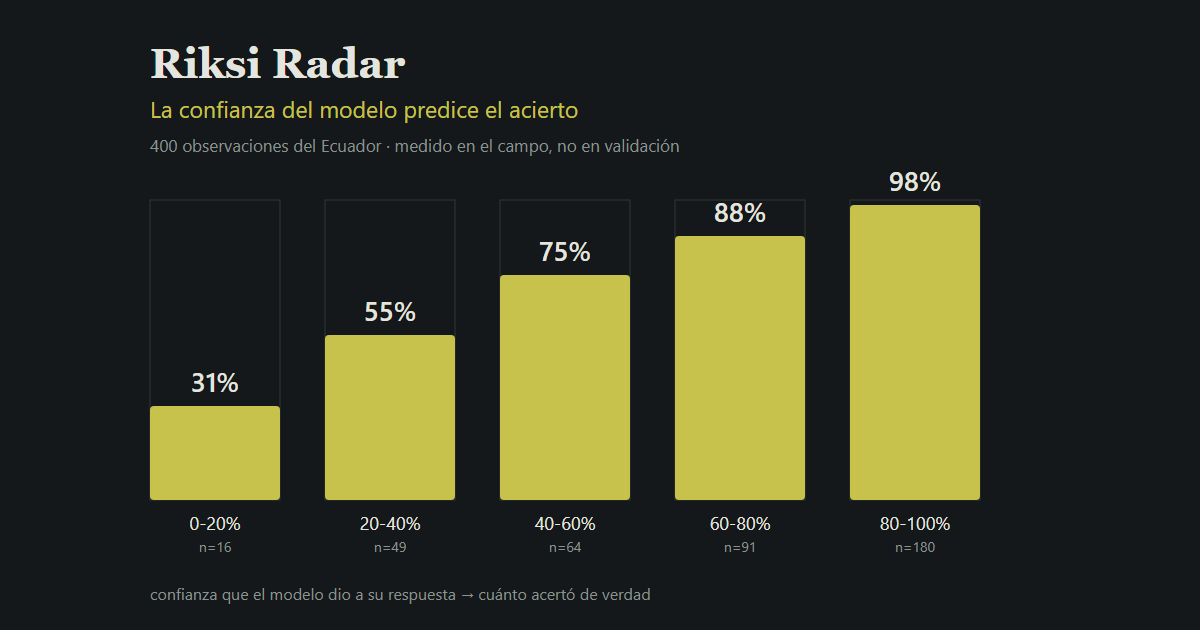
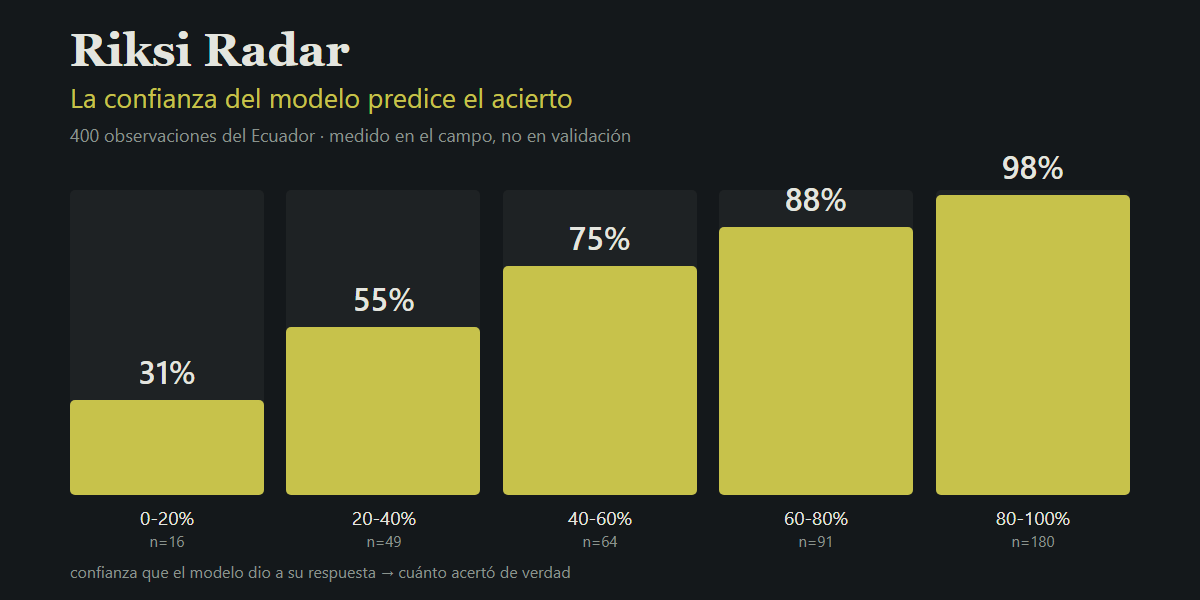
La portada llena el lienzo: de 3,53 a 7,65 de usabilidad
La primera version usaba barras de 130px con margenes de 150 sobre un
lienzo de 1200x630: cinco palitos perdidos en un fondo negro. Ahora el
ancho de barra sale de dividir el espacio disponible, asi que el dibujo
se adapta si algun dia hay mas tramos, y hay aire suficiente arriba para
que la cifra de la barra mas alta no roce el subtitulo.

Con eso Kaggle no reporta ninguna accion pendiente y la nota queda en
7,65. Las descripciones de columna si habian llegado: tardan en
indexarse, y por eso la nota parecia estancada en 6,47.

Changed region(s): [[0.0308, 0.24, 0.9558, 0.96], [0.0617, 0.03, 0.5858, 0.24]]

diff --git a/portada.py b/portada.py
@@ -23,7 +23,11 @@ SALIDA = AQUI / "kaggle" / "portada.png"
 # misma familia sin tener que decirlo.
 BASALTO, LIQUEN, PAPEL, TENUE = "#14181b", "#c7c24b", "#e4e5df", "#8a938d"
 
-ANCHO, ALTO = 1200, 630          # la proporción que Kaggle usa en el listado
+# Kaggle recorta la portada a un rectángulo ancho en el listado y la enseña
+# pequeña, así que el dibujo tiene que llenar el lienzo. La primera versión
+# usaba 1200x630 con barras de 130 px y márgenes de 150: se veía como cinco
+# palitos perdidos en un fondo negro.
+ANCHO, ALTO = 1200, 600
 
 
 def datos():
@@ -50,50 +54,63 @@ def datos():
 
 
 def svg(filas, total):
-    izq, base, ancho_barra, hueco = 150, 500, 130, 45
-    alto_max = 300
+    """Cinco barras que llenan el lienzo, no cinco palitos en un fondo.
+
+    El ancho de barra sale de dividir el espacio disponible, en vez de estar
+    fijado a ojo: así el dibujo se adapta si algún día hay más tramos.
+    """
+    # 190 arriba deja sitio a la cifra sobre la barra mas alta: con 175 el «98 %»
+    # rozaba el subtitulo. Y 105 abajo separa el pie de las etiquetas.
+    izq, der, arriba, abajo = 70, 70, 190, 105
+    util = ANCHO - izq - der
+    base = ALTO - abajo
+    alto_max = base - arriba
+
+    hueco = 22
+    ancho_barra = (util - hueco * (len(filas) - 1)) / len(filas)
 
     partes = [
         f'<svg xmlns="http://www.w3.org/2000/svg" width="{ANCHO}" height="{ALTO}" '
         f'viewBox="0 0 {ANCHO} {ALTO}">',
         f'<rect width="{ANCHO}" height="{ALTO}" fill="{BASALTO}"/>',
-        f'<text x="{izq}" y="78" fill="{PAPEL}" font-size="42" font-weight="600" '
+        f'<text x="{izq}" y="66" fill="{PAPEL}" font-size="46" font-weight="600" '
         f'font-family="Georgia, serif">Riksi Radar</text>',
-        f'<text x="{izq}" y="118" fill="{LIQUEN}" font-size="23" '
+        f'<text x="{izq}" y="108" fill="{LIQUEN}" font-size="27" '
         f'font-family="system-ui, sans-serif">'
         f'La confianza del modelo predice el acierto</text>',
-        f'<text x="{izq}" y="152" fill="{TENUE}" font-size="17" '
+        f'<text x="{izq}" y="142" fill="{TENUE}" font-size="18" '
         f'font-family="system-ui, sans-serif">'
         f'{total} observaciones del Ecuador · medido en el campo, no en validación</text>',
     ]
 
     for i, (tramo, n, acierta) in enumerate(filas):
         x = izq + i * (ancho_barra + hueco)
-        alto = max(6, alto_max * acierta / 100)
+        alto = max(8, alto_max * acierta / 100)
         y = base - alto
-        # La barra se llena en proporción al acierto; el contorno marca el 100 %
-        # para que se vea cuánto falta sin tener que leer el eje.
+        centro = x + ancho_barra / 2
+        # El contorno marca el 100 %: sin él no se ve cuánto falta y las barras
+        # parecen absolutas en vez de porcentajes.
         partes += [
-            f'<rect x="{x}" y="{base - alto_max}" width="{ancho_barra}" '
-            f'height="{alto_max}" fill="none" stroke="{TENUE}" '
-            f'stroke-width="1" opacity=".25"/>',
-            f'<rect x="{x}" y="{y:.0f}" width="{ancho_barra}" height="{alto:.0f}" '
-            f'fill="{LIQUEN}" rx="4"/>',
-            f'<text x="{x + ancho_barra/2:.0f}" y="{y - 14:.0f}" fill="{PAPEL}" '
-            f'font-size="27" font-weight="600" text-anchor="middle" '
+            f'<rect x="{x:.0f}" y="{arriba}" width="{ancho_barra:.0f}" '
+            f'height="{alto_max}" fill="{PAPEL}" opacity=".05" rx="5"/>',
+            f'<rect x="{x:.0f}" y="{y:.0f}" width="{ancho_barra:.0f}" '
+            f'height="{alto:.0f}" fill="{LIQUEN}" rx="5"/>',
+            f'<text x="{centro:.0f}" y="{y - 16:.0f}" fill="{PAPEL}" '
+            f'font-size="32" font-weight="600" text-anchor="middle" '
             f'font-family="system-ui, sans-serif">{acierta:.0f}%</text>',
-            f'<text x="{x + ancho_barra/2:.0f}" y="{base + 30}" fill="{PAPEL}" '
-            f'font-size="18" text-anchor="middle" '
+            f'<text x="{centro:.0f}" y="{base + 30}" fill="{PAPEL}" '
+            f'font-size="19" text-anchor="middle" '
             f'font-family="system-ui, sans-serif">{tramo}%</text>',
-            f'<text x="{x + ancho_barra/2:.0f}" y="{base + 52}" fill="{TENUE}" '
-            f'font-size="14" text-anchor="middle" '
+            f'<text x="{centro:.0f}" y="{base + 52}" fill="{TENUE}" '
+            f'font-size="15" text-anchor="middle" '
             f'font-family="system-ui, sans-serif">n={n}</text>',
         ]
 
     partes += [
-        f'<text x="{izq}" y="{base + 100}" fill="{TENUE}" font-size="16" '
+        f'<text x="{izq}" y="{ALTO - 22}" fill="{TENUE}" font-size="16" '
         f'font-family="system-ui, sans-serif">'
-        f'confianza que el modelo dio a su respuesta  →  cuánto acertó de verdad</text>',
+        f'confianza que el modelo dio a su respuesta  →  cuánto acertó de verdad'
+        f'</text>',
         "</svg>",
     ]
     return "\n".join(partes)
